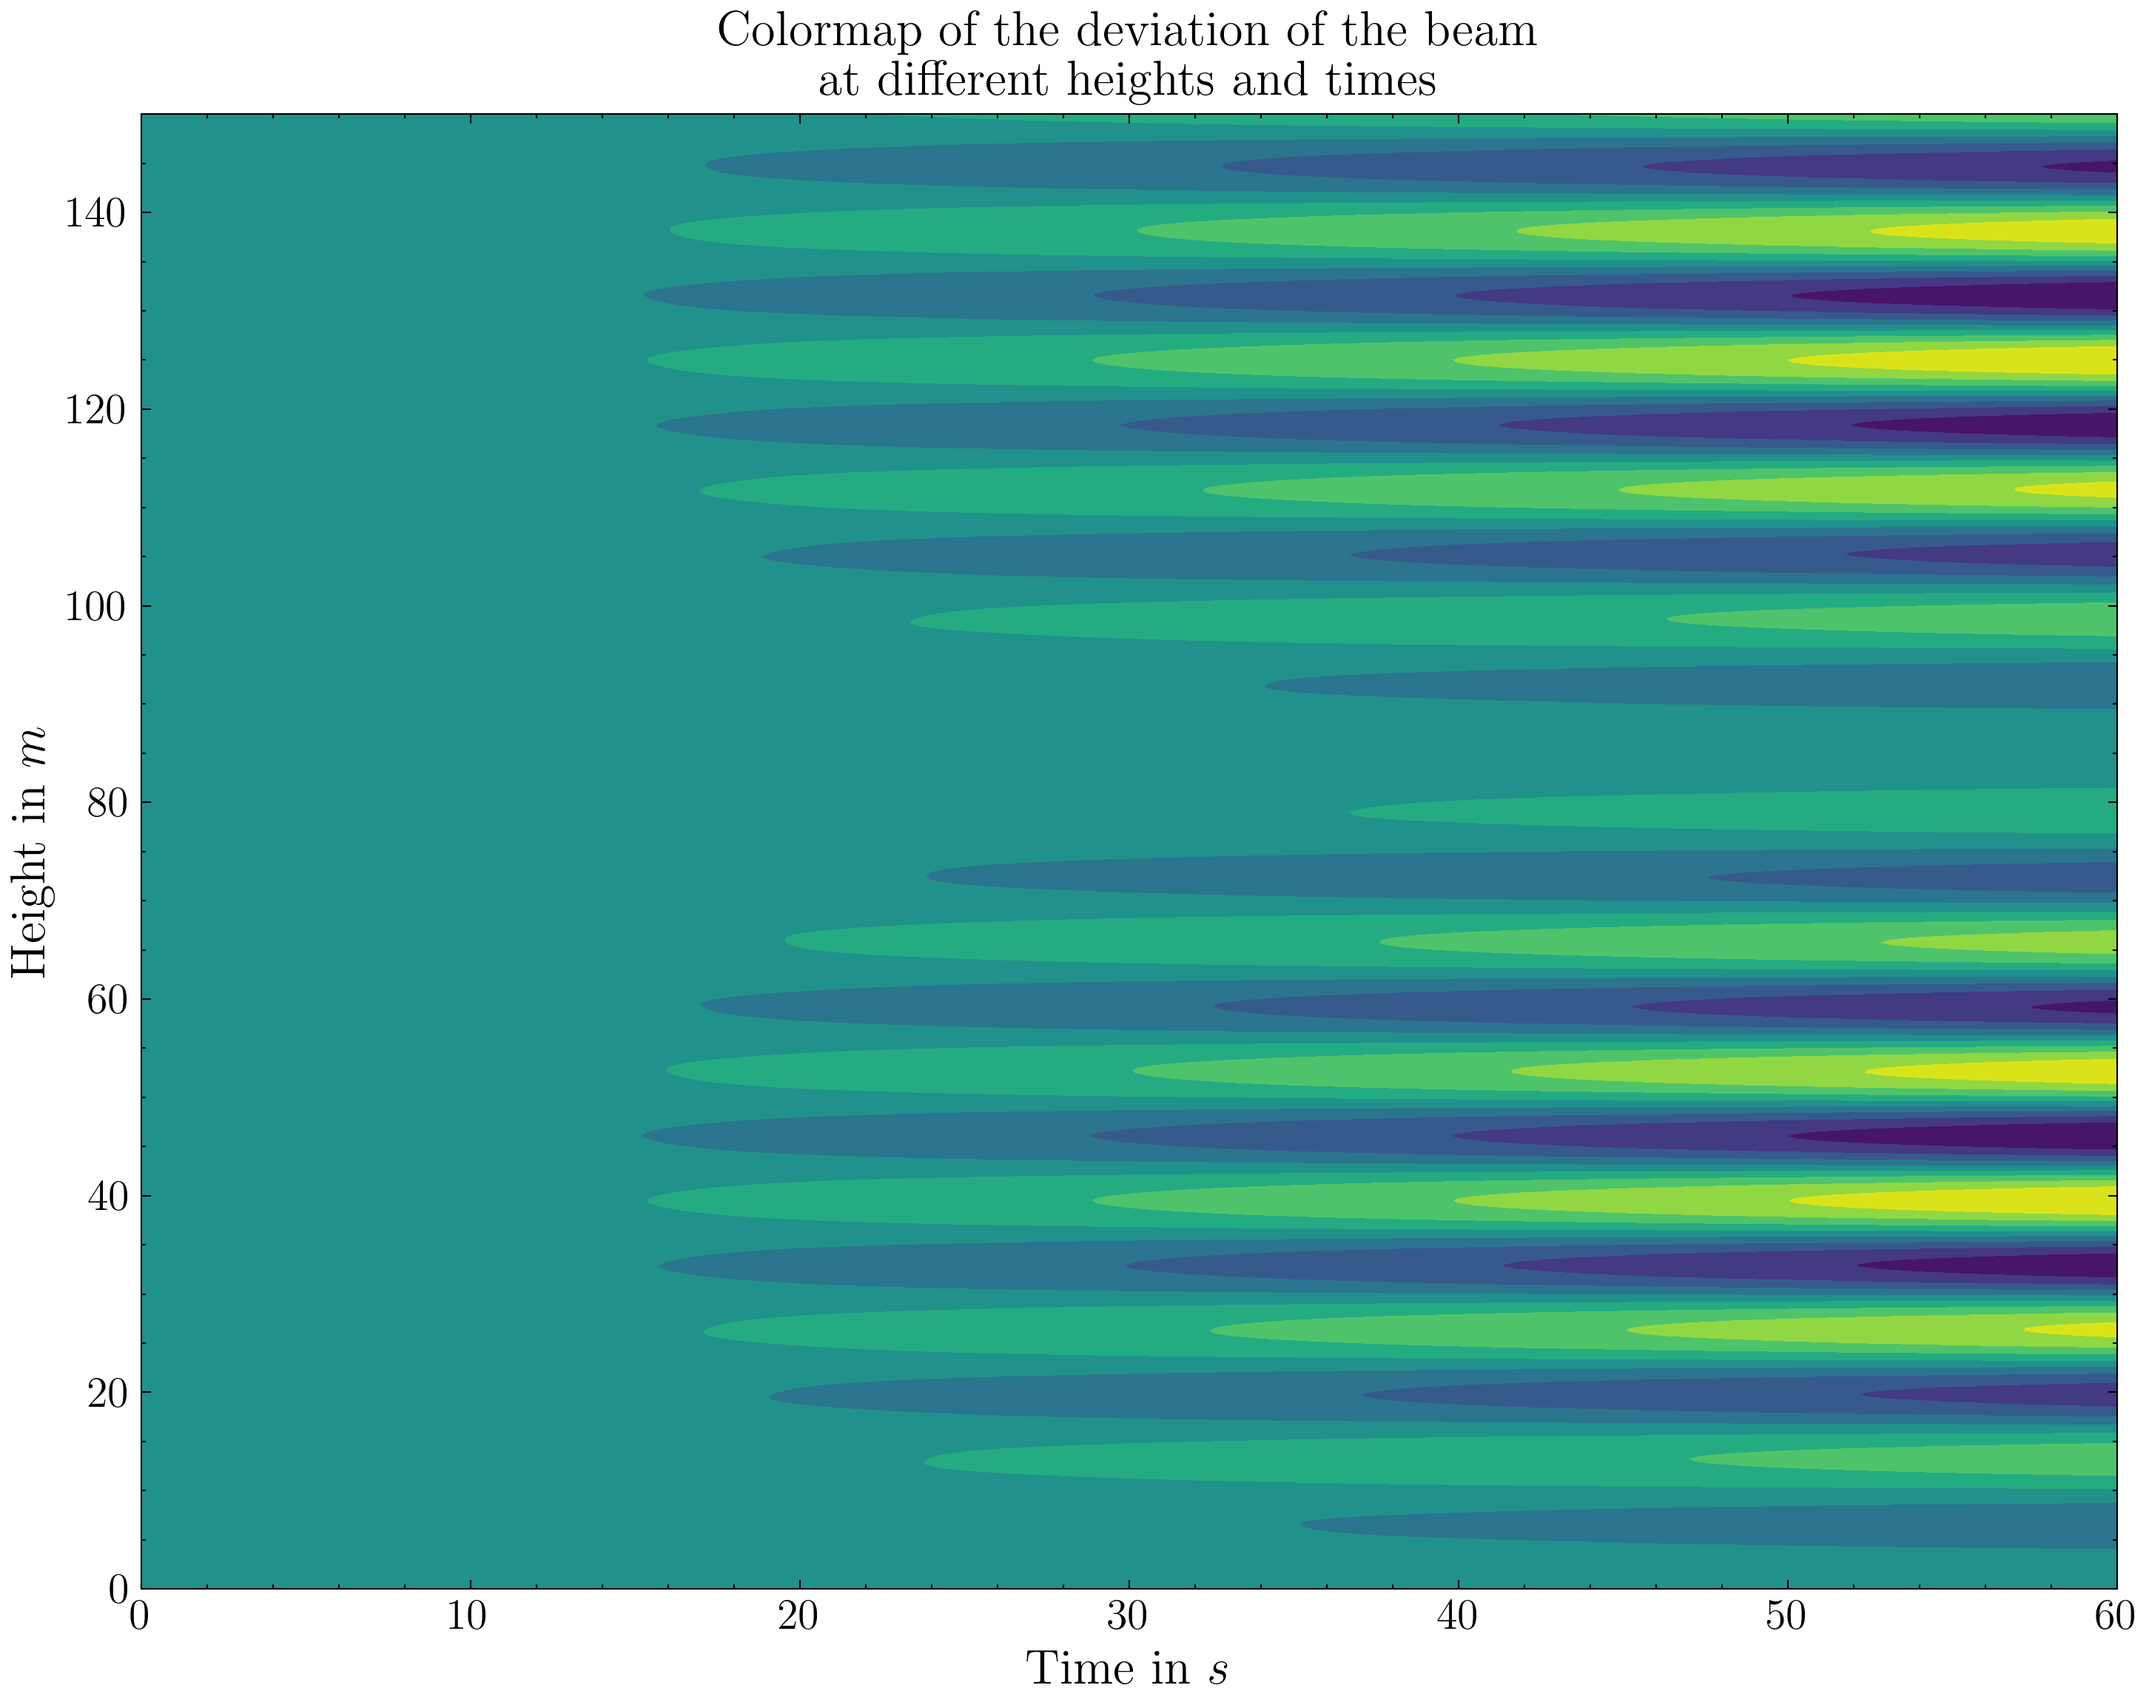
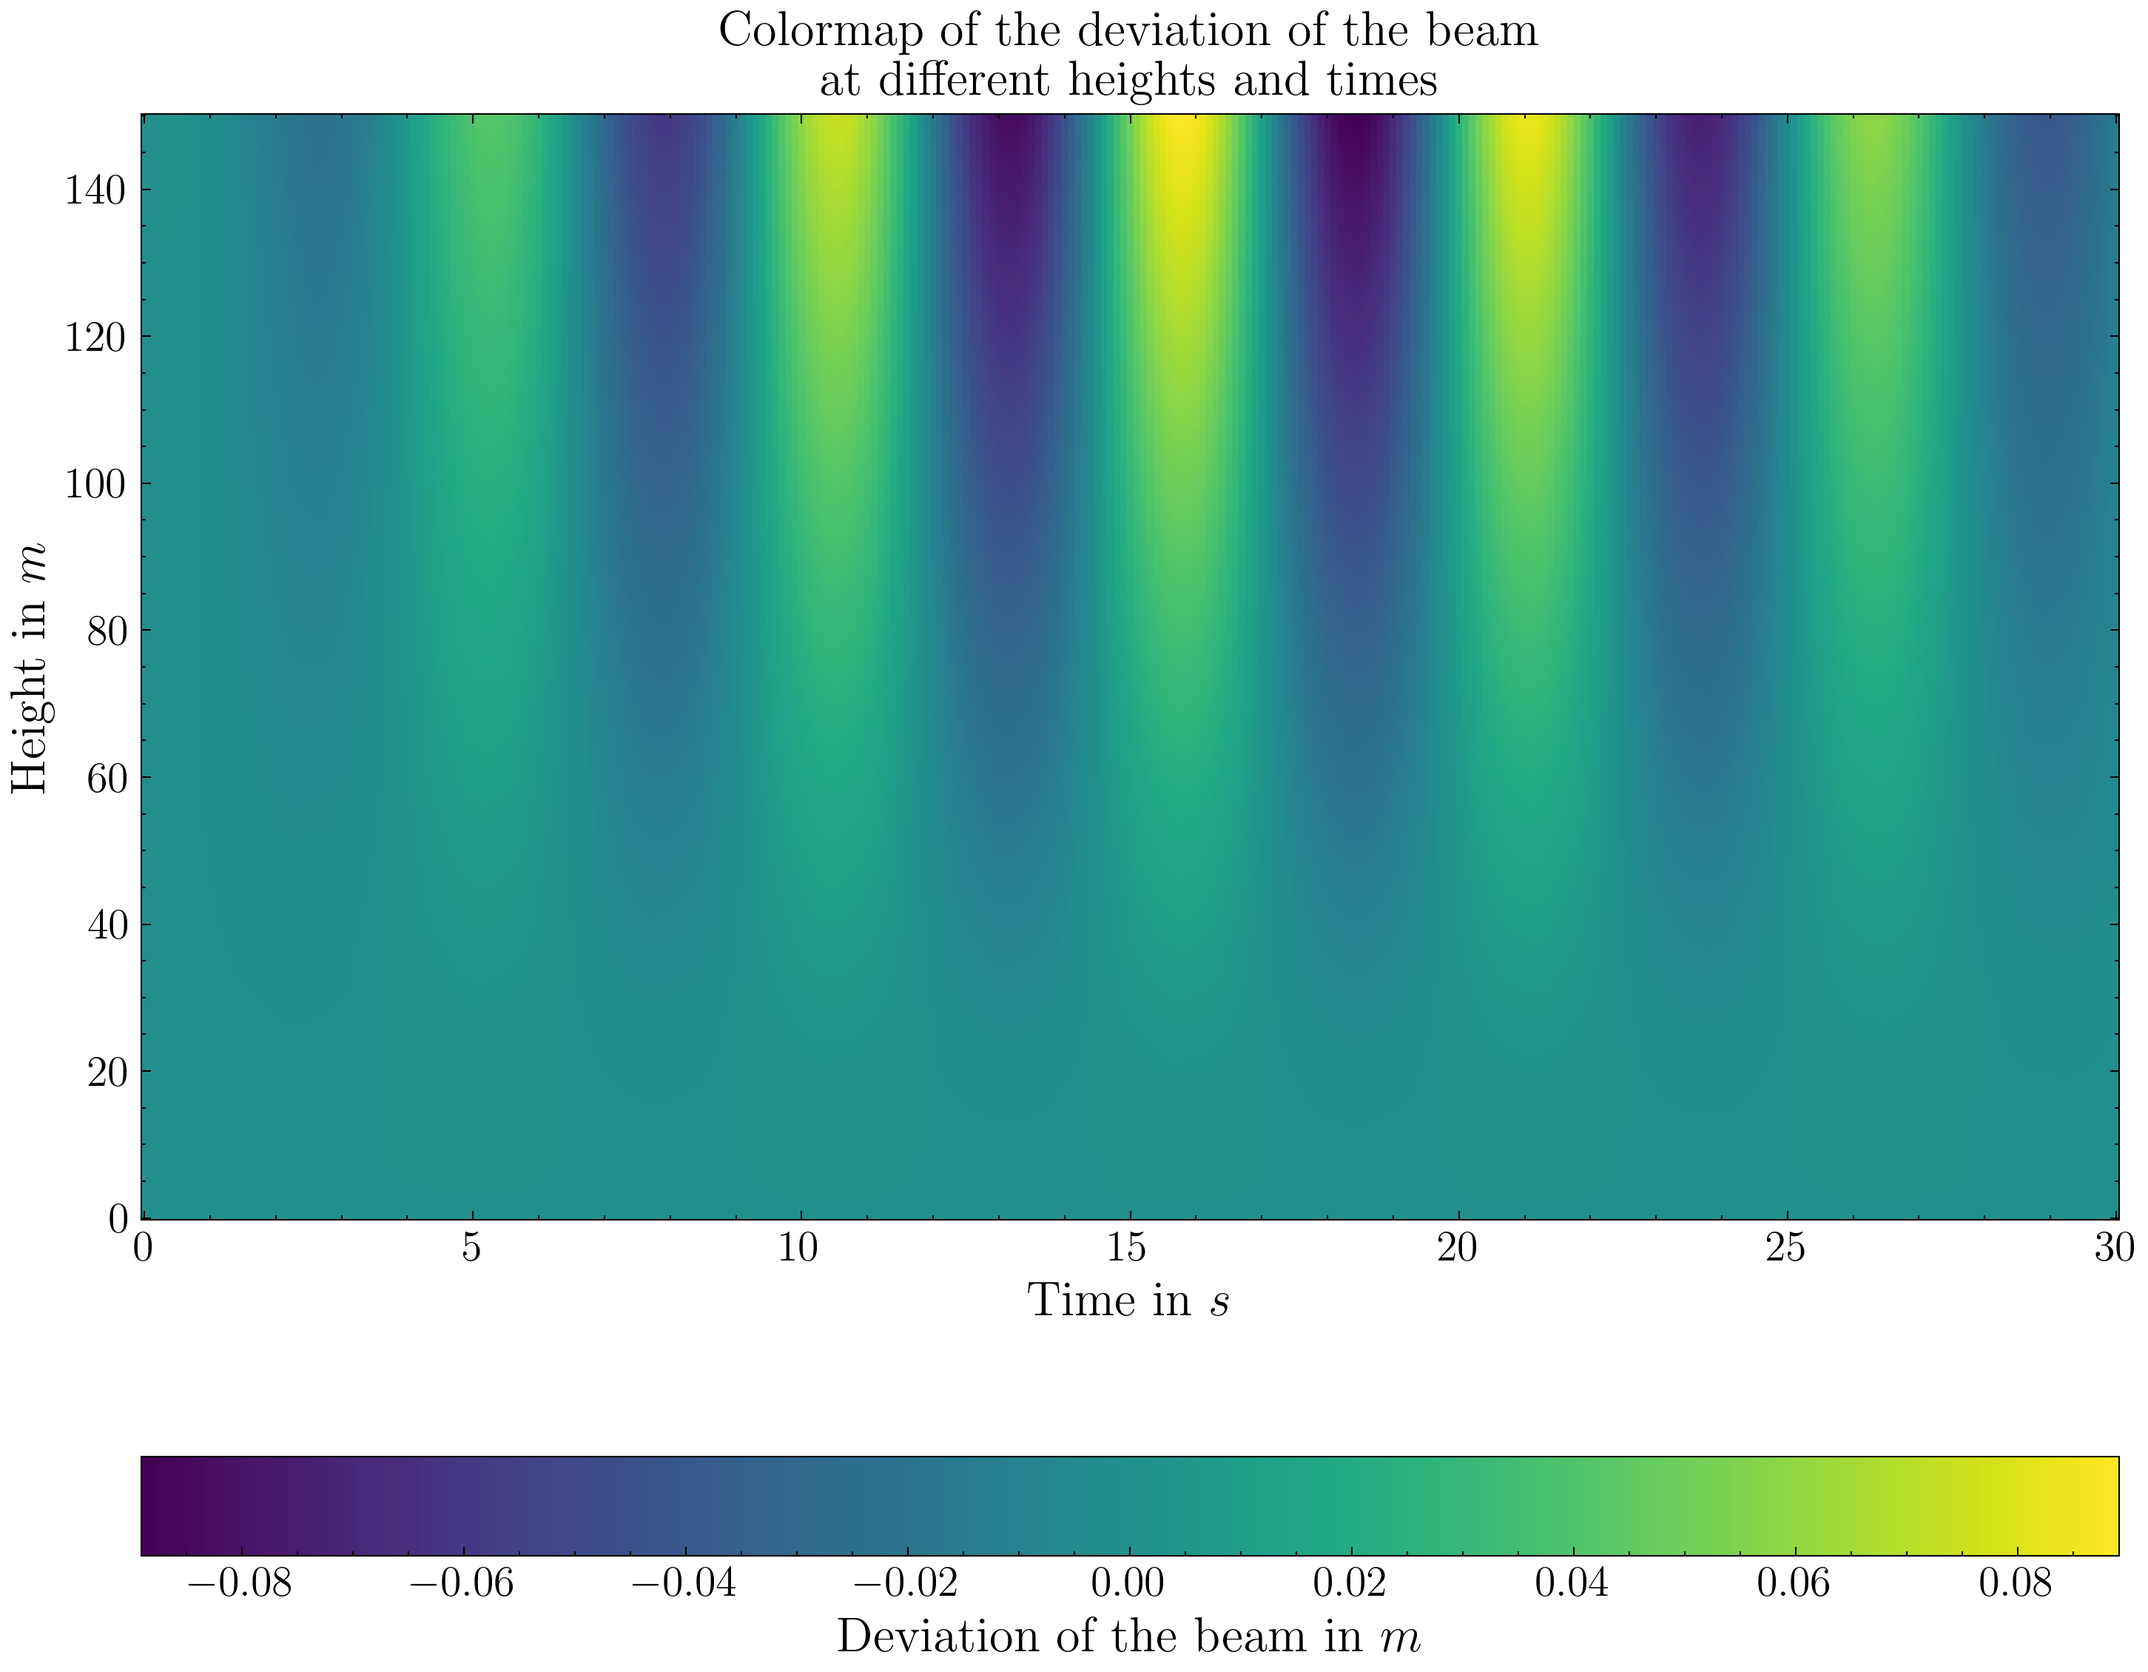
pictures

diff --git a/PhiCalc.py b/PhiCalc.py
@@ -625,7 +625,7 @@ def BEQ(
                 W_total.append([t_step, h, W(h)])
         else:
             for h_count, h in enumerate(heights):
-                W_non_flattened[t_count, h_count] = W(h)
+                W_non_flattened[h_count, t_count] = W(h)
 
     if flatten:
         return W_total
@@ -690,7 +690,7 @@ def get_xyz_plt():
 @cache
 def tricolormap():
     plt.style.use(["science"])
-    time, height, z = BEQ(t_end=60, dt=0.1, l=150, dl=0.25, flatten=False)
+    time, height, z = BEQ(t_end=30, dt=0.1, l=150, dl=0.5, flatten=False)
 
     levels = np.linspace(z.min(), z.max(), 10)
 
@@ -700,15 +700,20 @@ def tricolormap():
     ax.set_title(
         "Colormap of the deviation of the beam \n at different heights and times",
     )
-    ax.set_xlabel("Time in $s$")
-    ax.set_ylabel("Height in $m$")
+    ax.set_xlabel(r"Time in $s$")
+    ax.set_ylabel(r"Height in $m$")
 
     # fig.colorbar(fig, ax=ax, label="Interactive colorbar")
 
     # ax.plot(x, y, alpha=0)
     X, Y = np.meshgrid(time, height)
     Z = z
-    ax.contourf(X, Y, Z, levels=levels)
+    # ax.contourf(X, Y, Z, levels=levels)
+    pos = ax.pcolormesh(X, Y, Z)
+    # pos = ax.imshow(Z, cmap="Blues", interpolation="none")
+    fig.colorbar(
+        pos, ax=ax, label="Deviation of the beam in $m$", orientation="horizontal"
+    )
     # ax.tripcolor([x, y], z)
 
     # -------------------BEGIN-CHANGES------------------------
@@ -718,7 +723,7 @@ def tricolormap():
     plt.show()
 
 
-tricolormap()
+# tricolormap()
 
 
 def top_of_beam_tu_diagram():
@@ -892,11 +897,11 @@ def rho_water_calc(T):
 
 
 def DT_DS_UMAX_Diagram():
-    plt.style.use("_mpl-gallery")
+    plt.style.use(["science"])
 
     # Make data.
     N_T = 20
-    N_S = 5
+    N_S = 10
     T = np.linspace(0, 40, N_T)
     S = np.linspace(0, 100, N_S)
     x, y = np.meshgrid(T, S)
@@ -915,11 +920,16 @@ def DT_DS_UMAX_Diagram():
     fig = plt.figure(figsize=(10, 8))
 
     ax = fig.add_subplot(111, projection="3d")
-    ax.plot_surface(x, y, Z, cmap="cool")
+    ax.set_box_aspect(aspect=None, zoom=0.8)
+    ax.plot_surface(x, y, Z, cmap="viridis")
 
-    ax.set_xlabel("Temperature in C")
-    ax.set_ylabel("Extra salinity in g/m^3")
-    ax.set_zlabel("u_max")
+    ax.set_xlabel(r"Temperature in $C$", labelpad=15)
+    ax.set_ylabel(r"Extra salinity in $\frac{g}{m^3}$", labelpad=15)
+    ax.set_zlabel(r"Maximal deviation in $m$", labelpad=15)
+
+    # -------------------BEGIN-CHANGES------------------------
+    plt.savefig("DT_DS_UMAX.png", dpi=300)
+    # --------------------END CHANGES------------------------
 
     # Plot the surface.
     plt.show()
@@ -955,6 +965,7 @@ def Operation_Salt():
         ax.plot(X, Y, label=f"Extra salinity of {salt}")
     ax.set_xlabel("Temperature in C")
     ax.set_ylabel("Max deviation in m")
+    # ax.set_zlabel()
     ax.legend(
         bbox_to_anchor=(0.0, 1.02, 1.0, 0.102),
         loc="lower left",
@@ -1017,4 +1028,4 @@ def get_table():
     print(table)
 
 
-get_table()
+# get_table()
